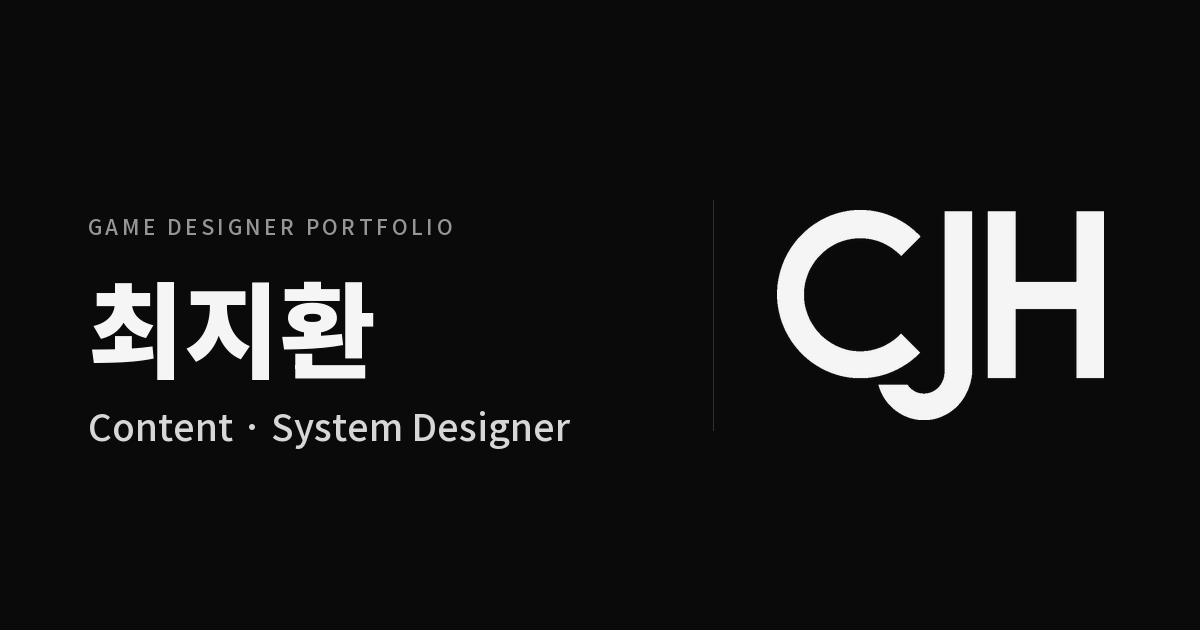
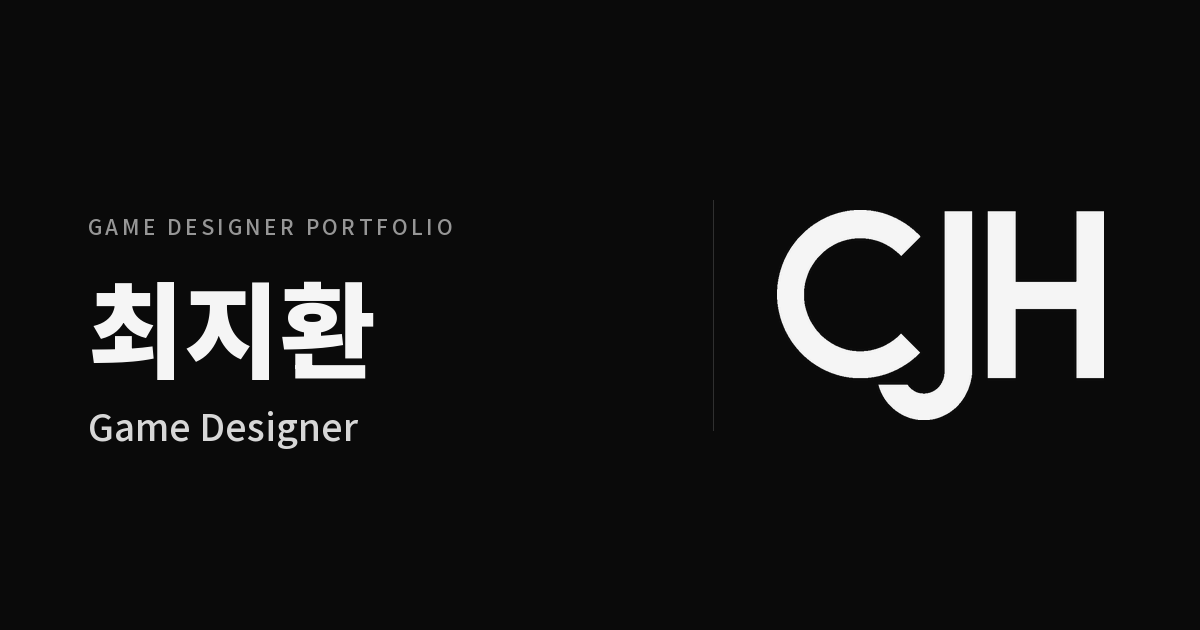
직함을 'Content · System Designer' -> 'Game Designer' 로 변경
사이트 히어로와 공유 이미지 두 곳에 같은 문구가 따로 적혀 있어 어긋나기 쉬웠다.
make-og.py 가 content.json 의 hero 값을 읽도록 바꿔 한 곳만 고치면 되게 했다.

공유 플랫폼 썸네일 캐시 갱신을 위해 ogImageVersion 을 2로 올림.

Changed region(s): [[0.0617, 0.6333, 0.4933, 0.7238]]

diff --git a/index.html b/index.html
@@ -21,7 +21,7 @@
 <meta property="og:description" content="최지환의 게임 기획 포트폴리오 — BELIEF, SOS: Sands Of Sin, 엘브네아(Elvenea), 좀비고등학교 게임 분석, 부서진 요람(BROKEN CRADLE)">
 <meta property="og:locale" content="ko_KR">
 <meta property="og:url" content="https://geato7.github.io/choijihwan-portfolio/">
-<meta property="og:image" content="https://geato7.github.io/choijihwan-portfolio/og-image.png?v=1">
+<meta property="og:image" content="https://geato7.github.io/choijihwan-portfolio/og-image.png?v=2">
 <meta property="og:image:width" content="1200">
 <meta property="og:image:height" content="630">
 <meta property="og:image:alt" content="최지환 — Game Designer Portfolio">
@@ -29,7 +29,7 @@
 <meta name="twitter:card" content="summary_large_image">
 <meta name="twitter:title" content="최지환 — Game Designer Portfolio">
 <meta name="twitter:description" content="최지환의 게임 기획 포트폴리오 — BELIEF, SOS: Sands Of Sin, 엘브네아(Elvenea), 좀비고등학교 게임 분석, 부서진 요람(BROKEN CRADLE)">
-<meta name="twitter:image" content="https://geato7.github.io/choijihwan-portfolio/og-image.png?v=1">
+<meta name="twitter:image" content="https://geato7.github.io/choijihwan-portfolio/og-image.png?v=2">
 <link rel="preconnect" href="https://fonts.googleapis.com">
 <link rel="preconnect" href="https://fonts.gstatic.com" crossorigin>
 <link href="https://fonts.googleapis.com/css2?family=Noto+Sans+KR:wght@300;400;500;700;900&display=swap" rel="stylesheet">
@@ -349,7 +349,7 @@
   <section class="hero" id="home">
     <div class="wrap">
       <div class="eyebrow">Game Designer Portfolio</div>
-      <h1>최지환 <span>Content · System Designer</span></h1>
+      <h1>최지환 <span>Game Designer</span></h1>
       <p class="lead">연극 전공에서 다져진 스토리텔링·캐릭터 감각과, Unity 기반 시스템 구현 경험을 결합해 “플레이어가 왜 그 선택을 하고 싶어지는가”를 설계하는 게임 기획자입니다.</p>
       <div class="tags">
         <span class="tag">콘텐츠 기획</span>

diff --git a/tools/make-og.py b/tools/make-og.py
@@ -5,6 +5,11 @@ from PIL import Image, ImageDraw, ImageFont
 import os
 
 ROOT = os.path.dirname(os.path.dirname(os.path.abspath(__file__)))
+import json
+
+# 사이트 본문과 같은 값을 쓴다 — 두 곳에 따로 적어두면 반드시 어긋난다
+with open(os.path.join(ROOT, "content.json"), encoding="utf-8") as fp:
+    HERO = json.load(fp)["hero"]
 
 OUT = ROOT
 W, H = 1200, 630
@@ -65,13 +70,13 @@ f_name = font(104, "Black")
 f_sub = font(37, "Medium")
 
 y = 214
-tracked(d, (X, y), "GAME DESIGNER PORTFOLIO", f_eyebrow, FAINT, 3.4)
+tracked(d, (X, y), HERO["eyebrow"].upper(), f_eyebrow, FAINT, 3.4)
 
 y += 52
-d.text((X, y), "최지환", font=f_name, fill=WHITE)
+d.text((X, y), HERO["name"], font=f_name, fill=WHITE)
 
 y += 138
-d.text((X, y), "Content · System Designer", font=f_sub, fill=DIM)
+d.text((X, y), HERO["subtitle"], font=f_sub, fill=DIM)
 
 path = os.path.join(OUT, "og-image.png")
 img.save(path, optimize=True)
